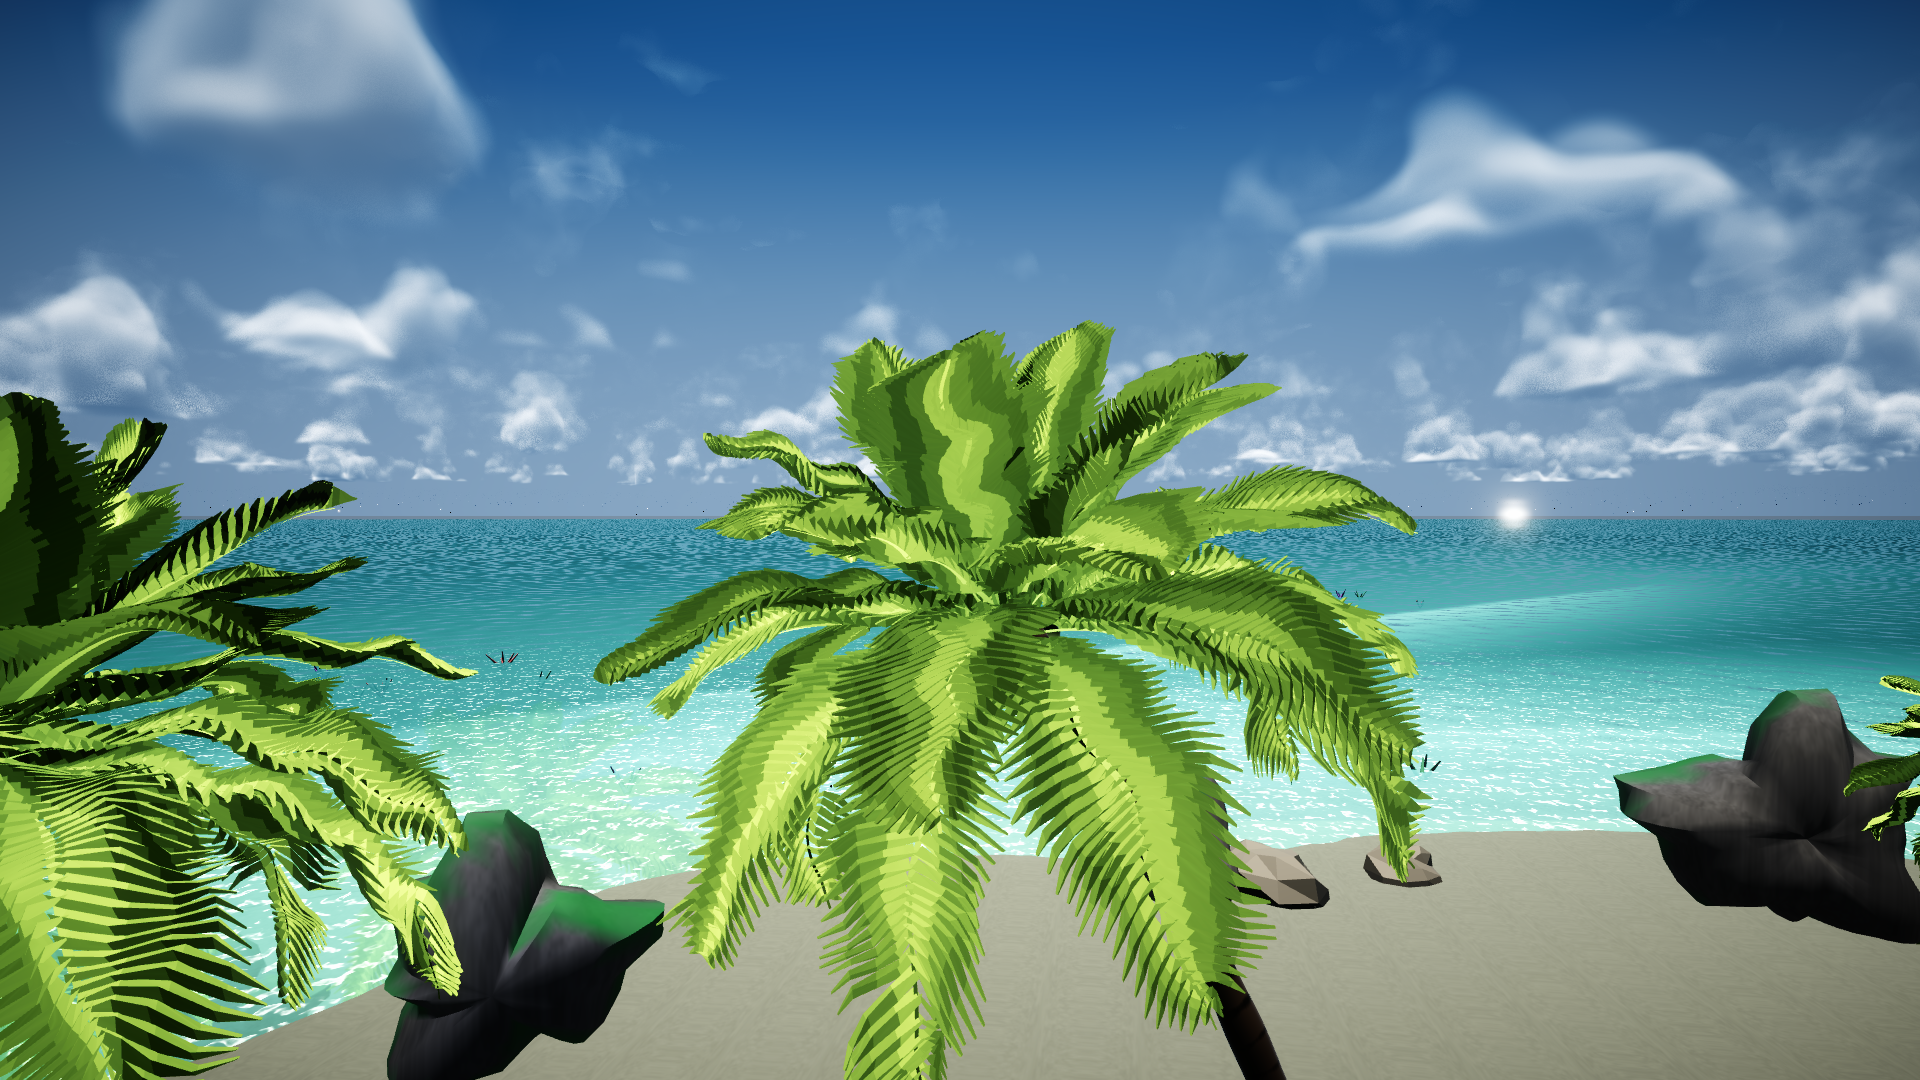
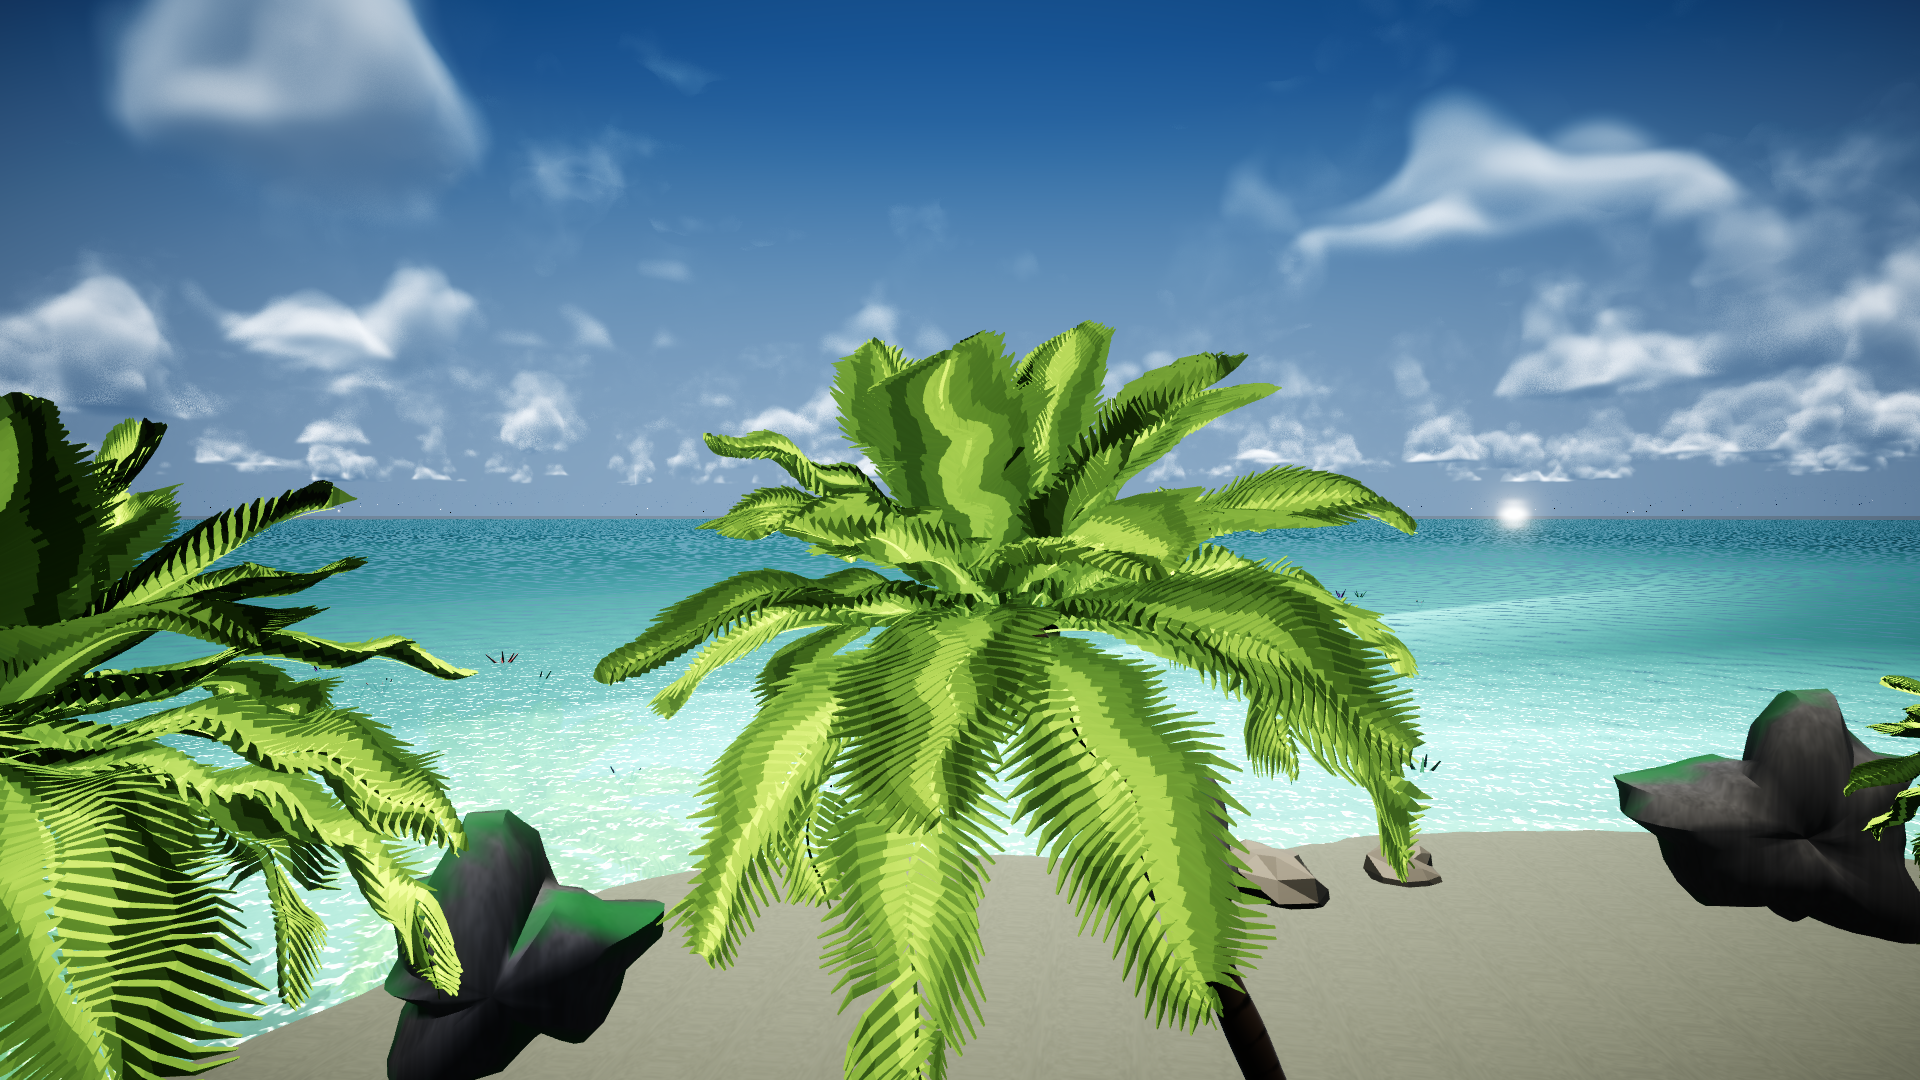
feat(R109): 泻湖浅水通透化 -- 看得到水底的沙(对齐参考最标志性观感). Water_Lagoon 的沙底返色通道参数太保守: _SandAbsorb 0.34->0.22(5米深仍有33%) + _SandReturn (0.58,0.60,0.54)->(0.80,0.82,0.74); 近岸出现明亮浅碧沙底带, 水色从'均匀青绿'变'近岸浅碧->远处深蓝' ②Islet 131.8/51.9/118.3/爆白0.47 ③未改: 棕榈叶近距离规则横条纹=分片几何受光(换模型才解决); Islet 礁石仍深绿黑块(下轮可换程序化岩)

diff --git a/Docs/学习路径与知识库/检测报告/R56_场景画质与采集口径.md b/Docs/学习路径与知识库/检测报告/R56_场景画质与采集口径.md
@@ -804,3 +804,27 @@ Pond：71.5 / 54.5 / 146.9 / 近黑 22.38 / 爆白 0.64。
 1. 每束光只有**一张平面四边形** ⇒ 侧看时退化成一条细线（画面里那些直线状细纹）；
    正解是每束做 **2~3 张交叉四边形**（billboard 十字），属建模改动。
 2. 水面那层"墨渍"状暗斑经排查是**树冠倒影**（物理上合理），不是伪影。
+
+---
+
+## R109：泻湖"看得到水底的沙"（对齐参考最标志性的观感）
+
+参考帧最抓人的一点：**浅水是清澈的，能看到白沙滩底**。我们的泻湖一直是一块均匀的青绿。
+
+`Water_Lagoon` 本来就有"沙底返色"这条通道：
+
+```
+float sandMix = exp(-vd * _SandAbsorb);                 // 沙底还能返多少光
+col += _SandReturn.rgb * sandMix * (ambient*0.5 + mainLight*ndl) * 0.35;
+```
+
+但参数保守：`_SandAbsorb = 0.34`（3 米深处只剩 36%）、`_SandReturn = (0.58,0.60,0.54)`（偏灰）。
+
+改成 **`_SandAbsorb = 0.22`**（5 米深仍有 33%）+ **`_SandReturn = (0.80,0.82,0.74)`**（亮的白沙）后：
+近岸出现一条**明亮的浅碧色沙底带**，水色从"均匀青绿"变成"近岸浅碧 → 远处深蓝"的自然过渡。
+
+Islet：131.8 / 51.9 / 118.3 / 近黑 3.45 / 爆白 0.47。
+
+### 观察到的（未改）
+- 棕榈叶在近距离呈**规则横条纹**：这是叶片本身的分片几何在受光，不是贴图 —— 换模型才能解决。
+- Islet 的礁石仍是深绿黑色块（`Islet_ReefRock`），可以像 Ocean 那样换程序化岩，下一轮做。
